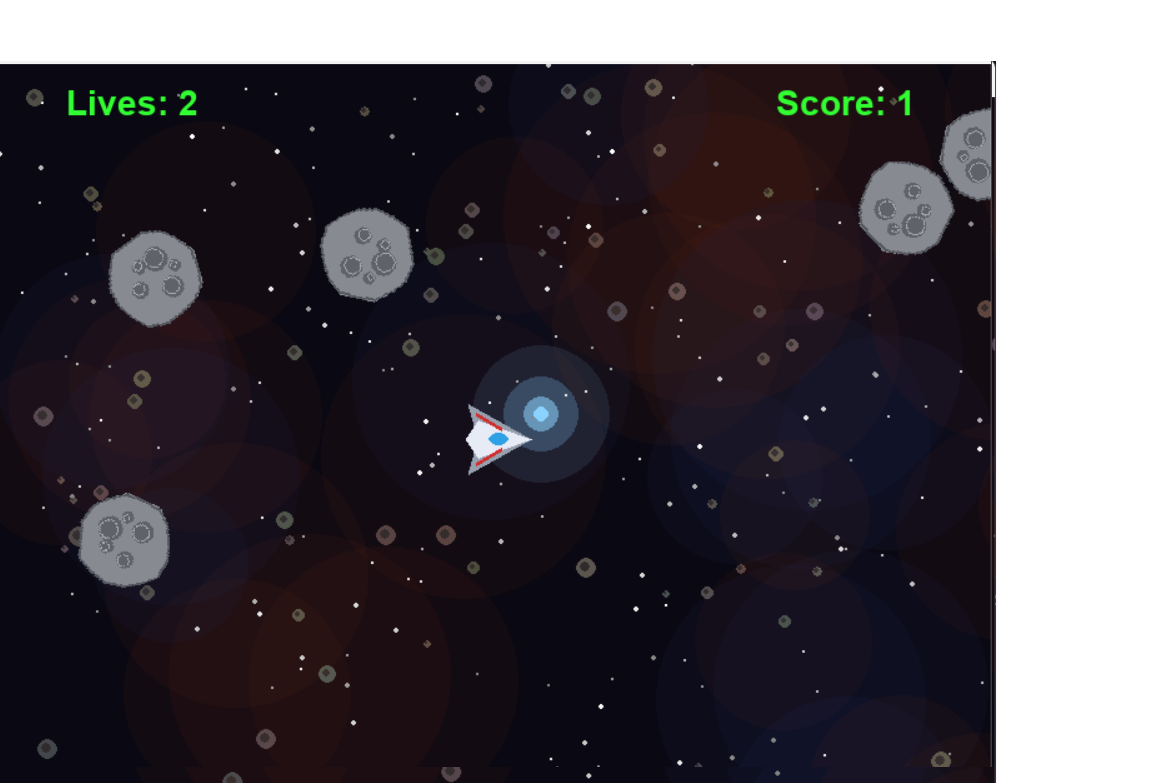
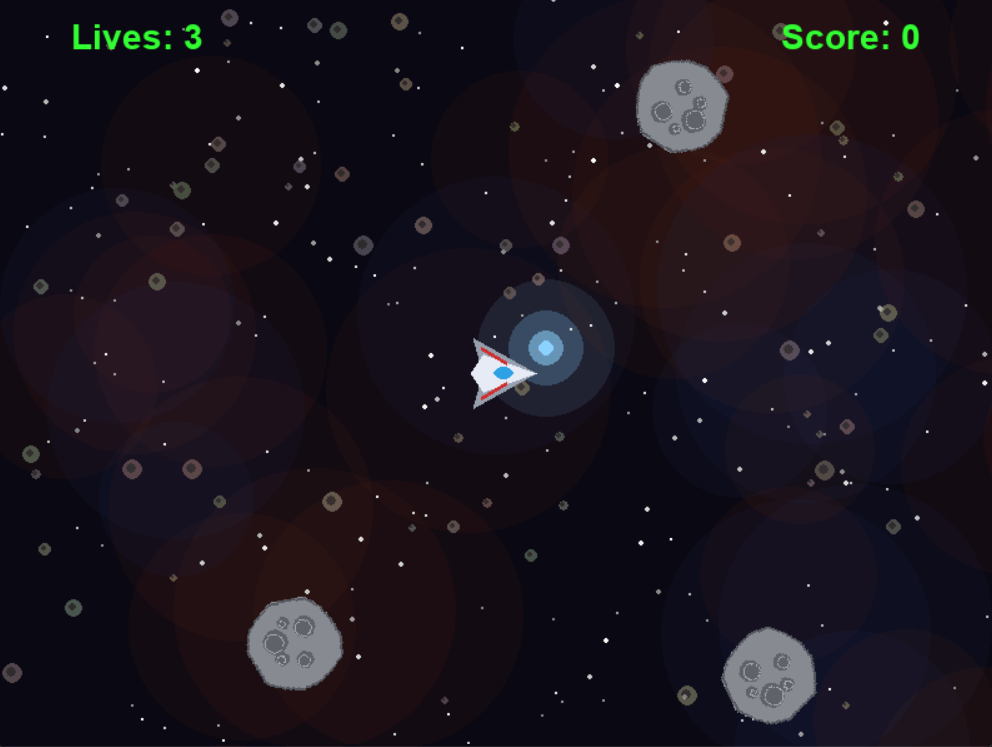
Обновление скриншотов в README.md

diff --git a/README.md b/README.md
@@ -22,7 +22,7 @@
 ### Начальный экран с заставкой
 ![Начальный экран](screenshots/start_screen.png)
 
-### Игровой процесс и анимация взрыва
+### Игровой процесс
 ![Игровой процесс](screenshots/gameplay.png)
 
 ## Требования к системе
